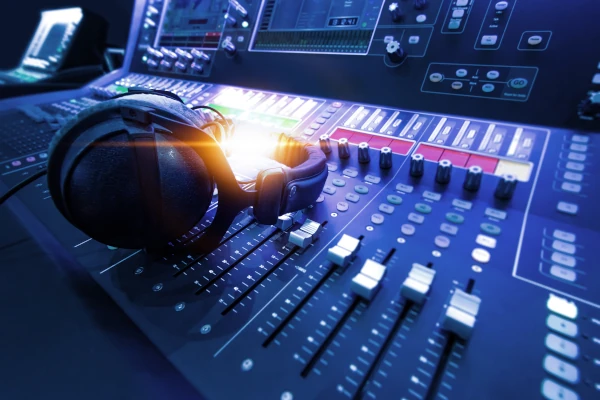
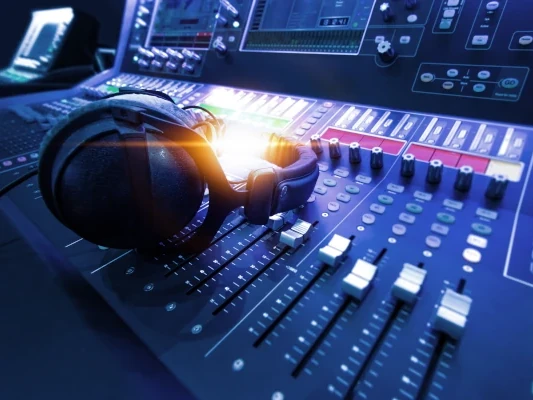
updates public home promo photos

diff --git a/app/(public)/home/page.js b/app/(public)/home/page.js
@@ -41,7 +41,7 @@ export default function PublicHome() {
           direction={'right'}
           background={'white'}
           title={'The String School App'}
-          photo={{image: '/images/appStores.webp'}}
+          photo={{image: '/images/home-page/tech-green-background.jpg'}}
           text={`This is the String School web app, and while features for students are still being finalized, it will eventually handle scheduling, tracking progress, and accessing sheet music and resources.
        Other features include an interactive tab & sheet music player to view, print, and listen to my vast collection of digital sheet music,
        weekly lesson logs, and various progress paths to view your achievements in different areas of focus. Once the web app is complete, work will begin on finalizing the mobile
@@ -53,10 +53,9 @@ export default function PublicHome() {
           direction={'left'}
           title={'String School Concerts'}
           background={'lightBackground1'}
-          photo={{image: '/images/concerts.webp', styles: { border: 'solid 2px, rgba(255, 255, 255, .7'}}}
-          text={`Student concerts can be one of the most fun and exciting ways to show off your skills. I hold concerts twice per year, and
-          starting in March 2025 concerts are going to move to the next level with top tier lighting and sound, and a custom-built stage set that
-          rivals any concert venue in San Diego!`}
+          photo={{image: '/images/home-page/concerts-2.jpg', styles: { border: 'solid 2px, rgba(255, 255, 255, .7'}}}
+          text={`Student concerts can be one of the most fun and exciting ways to show off your skills. I hold concerts twice per year, they include
+           top tier lighting and sound, and a custom-built stage set that rivals any concert venue in San Diego! `}
         />
       </div>
       <div id='studio'>
@@ -65,7 +64,7 @@ export default function PublicHome() {
           background={'white'}
 
           title={'String School Studio'}
-          photo={{image: '/images/studio.webp', styles: { border: 'solid 2px, rgba(255, 255, 255, .7'}}}
+          photo={{image: '/images/home-page/studio.jpg', styles: { border: 'solid 2px, rgba(255, 255, 255, .7'}}}
           text={`For those that are less inclined to be performers, you can record a song instead! Twice a year I offer the choice
       of a concert performance or recording studio time to record your own song! It can be an original, or a cover song of your choice that
       we work on throughout the year. Learn more about the String School Studio`}
@@ -76,7 +75,7 @@ export default function PublicHome() {
           direction={'left'}
           background={'lightBackground1'}
           title={'Lesson Logs'}
-          photo={{image: '/images/progress.webp', styles: {border: 'solid 2px, rgba(255, 255, 255, .7'}}}
+          photo={{image: '/images/home-page/progress.webp', styles: {border: 'solid 2px, rgba(255, 255, 255, .7'}}}
           text={`Through the String School app you can review lesson logs for each week you've attended a lesson to check
             on what we did, what to practice, and any notes or other info related to that week's session. You can also track skills you've
             learned and see them in relation to different skill paths for genres of music you'd like to learn or goals you'd like to accomplish.`}
@@ -88,14 +87,14 @@ export default function PublicHome() {
           direction={'right'}
           background={'white'}
           title={'The String School Textbook'}
-          photo={{image: '/images/book.webp'}}
+          photo={{image: '/images/home-page/book-cover.jpg'}}
           text={`The String School Guitar Method is my textbook, and it is currently in the second edition. Every student
       receives a free PDF copy, and printed copies are available at the cost of printing them. Much of the book teaches concepts through color-coded
       charts and information, which has been a big help for students but also raises the cost of printing to around $45 or so in 2025.`}
         />
       </div>
 
-      <div id='stringsmith'>
+      {/* <div id='stringsmith'>
         <PromoBlock
           direction={'left'}
           background={'lightBackground1'}
@@ -107,12 +106,12 @@ export default function PublicHome() {
           textbook! It features customizable guitar fretboards also integrates with my String School app to track your progress and your practice time. These two apps work together: The String
           School app is to handle scheduling and access to resources, and Stringsmith is for actual learning and practice.`}
         />
-      </div>
+      </div> */}
 
       <div id='guitarPro'>
         <PromoBlock
-          direction={'right'}
-          background={'white'}
+          direction={'left'}
+          background={'lightBackground1'}
           title={'Guitar Pro 8'}
           photo={{image: '/images/guitarPro.png', styles: {border: 'solid 2px, rgba(255, 255, 255, .7'}}}
           text={`All students receive my personal 50% off code to purchase Guitar Pro 8, an incredible program for reading, writing, and practicing music for guitar.`}
@@ -123,8 +122,8 @@ export default function PublicHome() {
 
       <div id='future'>
         <PromoBlock
-          direction={'left'}
-          background={'lightBackground1'}
+          direction={'right'}
+          background={'white'}
           title={'The Future'}
           photo={{image: '/images/me/me.webp' }}
           text={`When I began giving lessons in 2009, I had none of these things. The most important thing that I can offer my students

diff --git a/components/Public/PublicHeader/PublicHeader.module.css b/components/Public/PublicHeader/PublicHeader.module.css
@@ -199,7 +199,8 @@
   background: var(--primary-gradient);
   background: #95d478;
   background: #8bc66f;
-  /* background: #a5e687; */
+  background: #a5e687;
+  background: #aeff88;
   color: white;
   padding-top: .75rem;
   box-shadow: 0 0 4px 0 rgba(0, 0, 0, 0.4);
@@ -207,7 +208,7 @@
 }
 .bookingLink a {
   color: black;
-  color: white;
+  /* color: white; */
   /* color: var(--primary-blue); */
   height: fit-content;
 }
